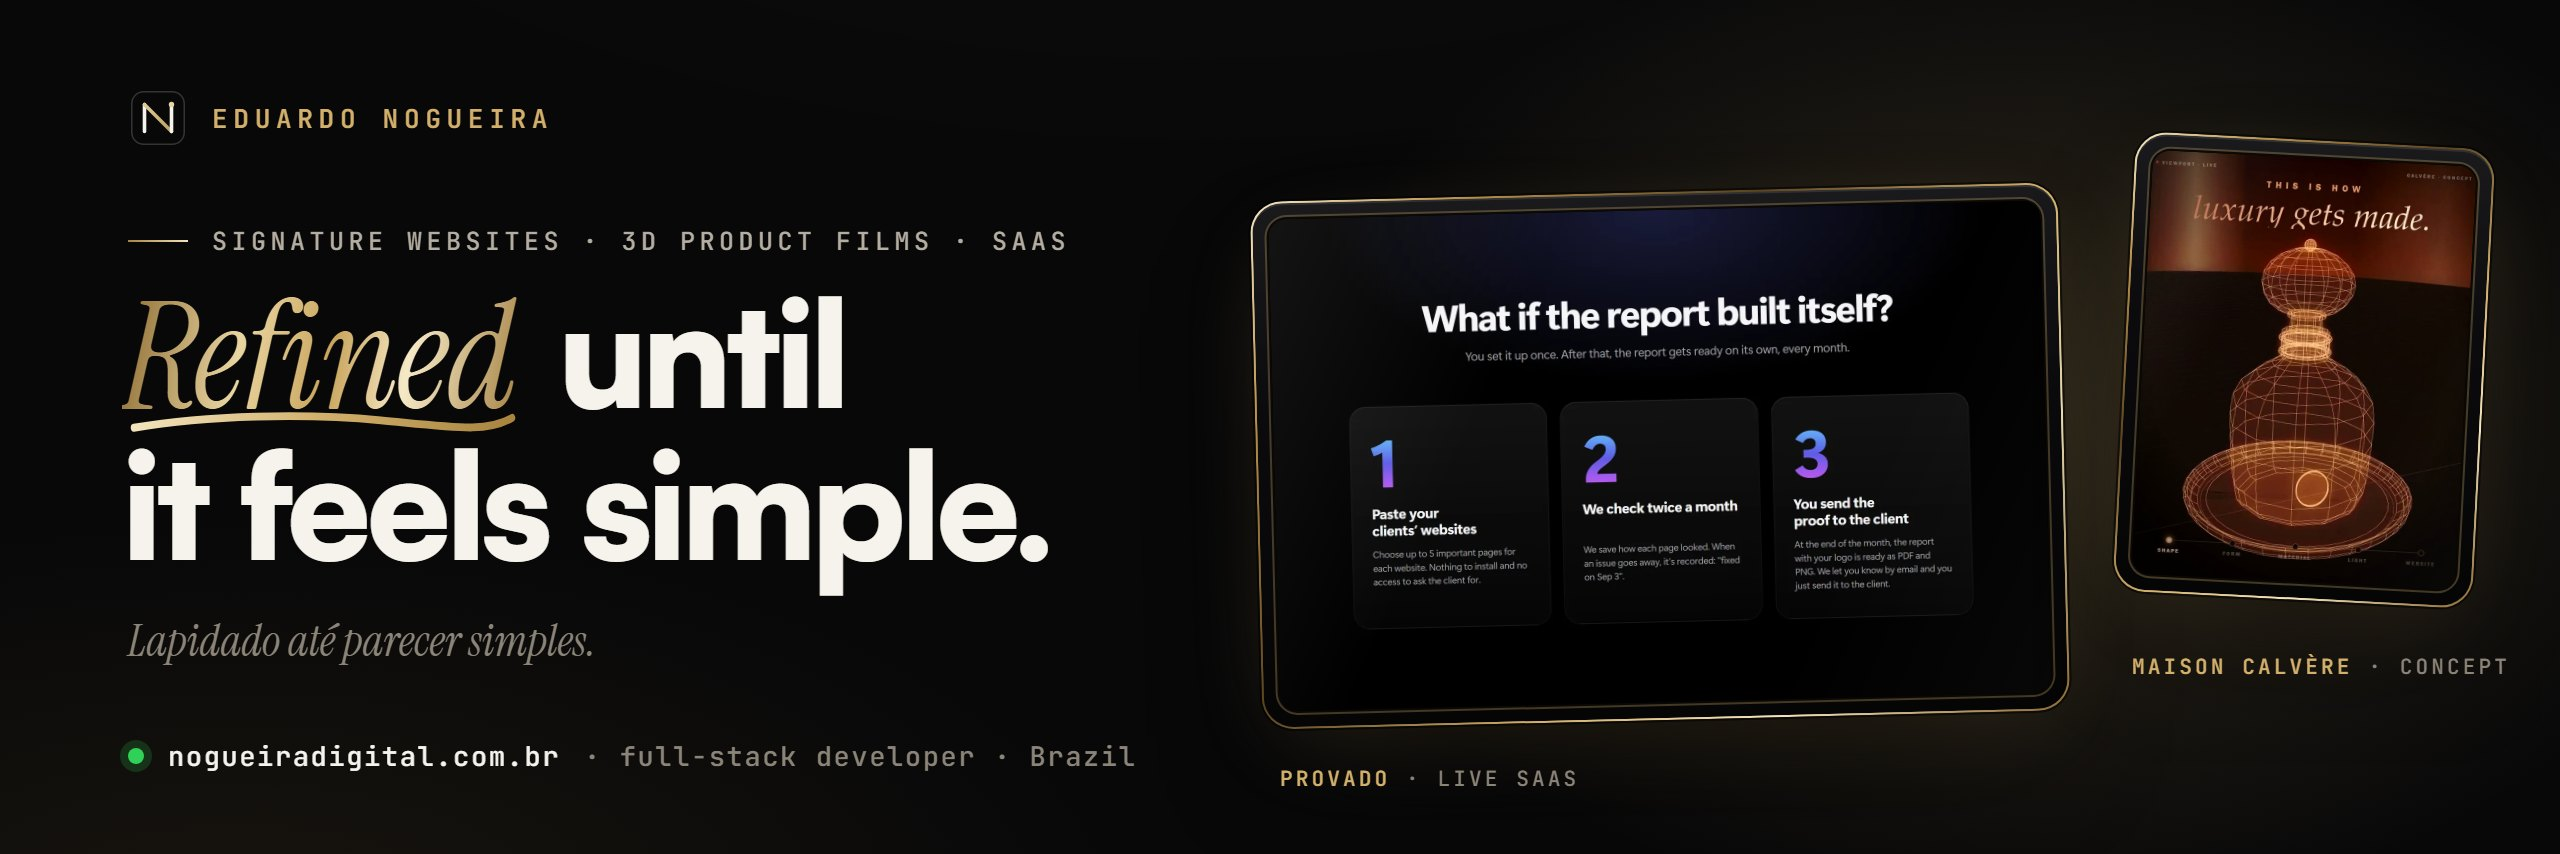
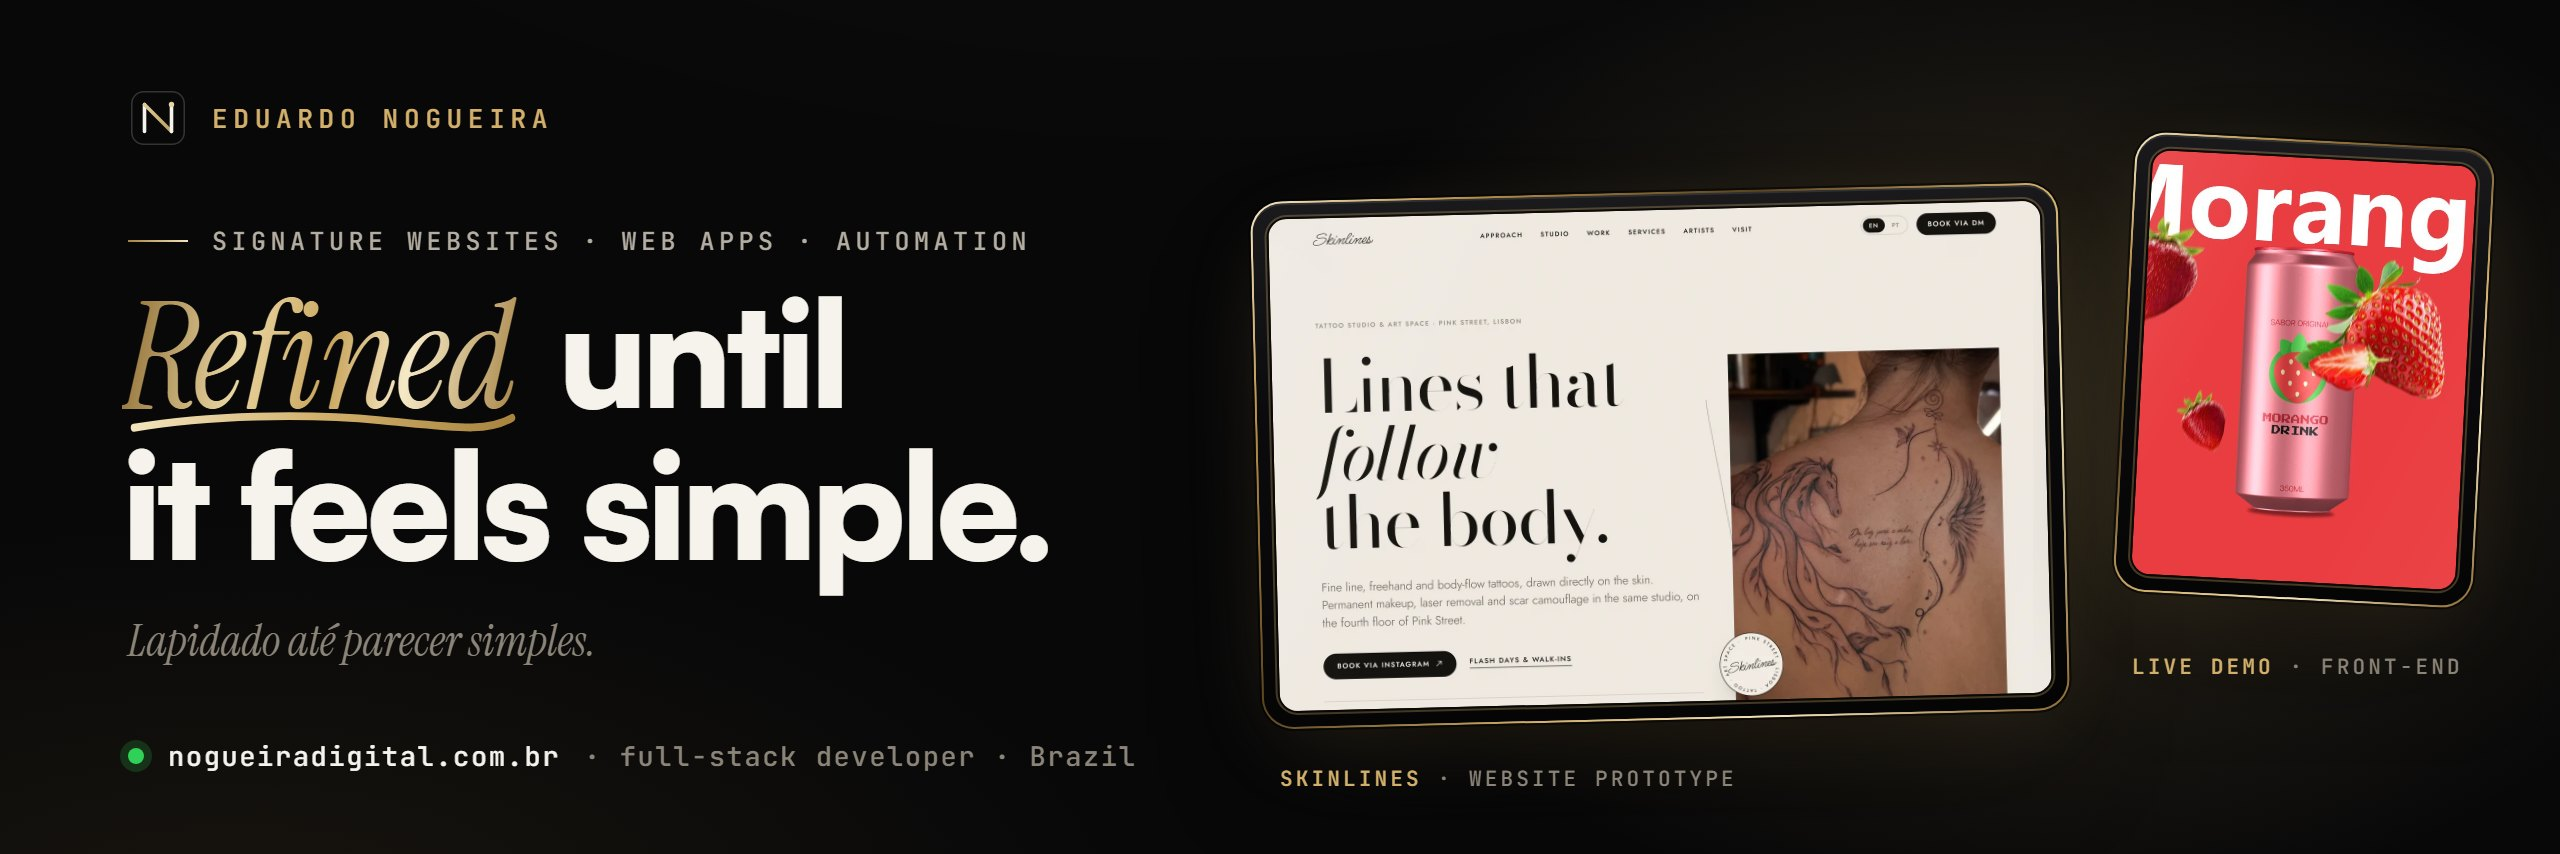
design: keep the profile to websites, web apps and automation
- Cover now shows the Skinlines prototype and a live demo
- Selected work: Skinlines (prototype) and MidasCrypto (paused)

Changed region(s): [[0.4688, 0.1522, 0.9688, 0.8525], [0.5, 0.8829, 0.6875, 0.9438], [0.25, 0.274, 0.4062, 0.3044]]

diff --git a/README.md b/README.md
@@ -1,11 +1,9 @@
 <p align="center">
-  <a href="https://nogueiradigital.com.br/"><img src="./assets/cover.jpg" width="100%" alt="Eduardo Nogueira — Refined until it feels simple. Signature websites, 3D product films and SaaS." /></a>
+  <a href="https://nogueiradigital.com.br/"><img src="./assets/cover.jpg" width="100%" alt="Eduardo Nogueira — Refined until it feels simple. Signature websites, web apps and automation." /></a>
 </p>
 
 <p align="center">
   <a href="https://nogueiradigital.com.br/"><img src="https://img.shields.io/badge/Portfolio-nogueiradigital.com.br-D2B06B?style=for-the-badge&labelColor=0B0B0D&logo=googlechrome&logoColor=D2B06B" alt="Portfolio: nogueiradigital.com.br" /></a>
-  &nbsp;
-  <a href="https://provadoseo.com/"><img src="https://img.shields.io/badge/Live-Provado_SaaS-30D158?style=for-the-badge&labelColor=0B0B0D" alt="Live: Provado SaaS" /></a>
   &nbsp;
   <a href="https://www.linkedin.com/in/eduardo-nogueira-b07545288/"><img src="https://img.shields.io/badge/LinkedIn-Let's_talk-D2B06B?style=for-the-badge&labelColor=0B0B0D&logo=linkedin&logoColor=D2B06B" alt="Let's talk on LinkedIn" /></a>
 </p>
@@ -18,7 +16,7 @@
 
 ## Refined until it feels simple.
 
-I'm **Eduardo Nogueira**, a full-stack developer from Brazil. I design and build **signature websites**, **3D product films** and **SaaS** — from the database to launch day.
+I'm **Eduardo Nogueira**, a full-stack developer from Brazil. I design and build **signature websites**, **web apps** and **automation** — from the database to launch day.
 
 By day I work on a product team (React, TypeScript, NestJS and Prisma), taking features from code review to production. The rest of the time I build my own products and systems for clients, thinking about the person behind the counter, not just the screenshot.
 
@@ -29,30 +27,16 @@ By day I work on a product team (React, TypeScript, NestJS and Prisma), taking f
 <table>
   <tr>
     <td width="50%" valign="top">
-      <a href="https://provadoseo.com/"><img src="./assets/work/provado.webp" width="100%" alt="Provado landing page: what if the report built itself?" /></a>
-      <h4><a href="https://provadoseo.com/">Provado ↗</a> &nbsp;<sub>🟢 LIVE</sub></h4>
-      <p>White-label proof of technical SEO work, for agencies. It checks client sites twice a month and builds the monthly report on its own — in English, Portuguese and Spanish, with Stripe checkout.<br /><sub>Prova mensal do trabalho técnico de SEO, white-label, para agências.</sub></p>
-      <p><sub>NEXT.JS · SUPABASE · STRIPE · PLAYWRIGHT</sub></p>
-    </td>
-    <td width="50%" valign="top">
-      <img src="./assets/work/midascrypto.webp" width="100%" alt="MidasCrypto landing page with an example card (fictional data)" />
-      <h4>MidasCrypto &nbsp;<sub>⏸ PAUSED</sub></h4>
-      <p>A Telegram data tool for new Solana launches, built with a friend: it filters every new pair, runs safety checks and sends one card, then reports what happened next. Ran in production in October; paused while I focus on Provado.<br /><sub>Ferramenta de dados no Telegram para lançamentos na Solana. Pausada. Card de exemplo com dados fictícios.</sub></p>
-      <p><sub>PYTHON · TELEGRAM · DATA</sub></p>
-    </td>
-  </tr>
-  <tr>
-    <td width="50%" valign="top">
       <a href="https://eduardon0gueira.github.io/skinlines-prototype/"><img src="./assets/work/skinlines.webp" width="100%" alt="Skinlines website prototype: Lines that follow the body." /></a>
       <h4><a href="https://eduardon0gueira.github.io/skinlines-prototype/">Skinlines Art Space ↗</a> &nbsp;<sub>PROTOTYPE</sub></h4>
       <p>An independent website prototype for a tattoo studio on Pink Street, Lisbon — editorial type, EN/PT, booking by DM. Not the studio's official site.<br /><sub>Protótipo independente de site para um estúdio de tatuagem em Lisboa. Não é o site oficial.</sub></p>
       <p><sub>HTML · CSS · JAVASCRIPT · <a href="https://github.com/EduardoN0gueira/skinlines-prototype">CODE</a></sub></p>
     </td>
     <td width="50%" valign="top">
-      <a href="https://nogueiradigital.com.br/#films"><img src="./assets/work/films.jpg" width="100%" alt="Three 3D product film concepts: Noctelle, Maison Calvère and Élore Verde" /></a>
-      <h4><a href="https://nogueiradigital.com.br/#films">3D product films ↗</a> &nbsp;<sub>CONCEPT · DESIGNED WITH AI</sub></h4>
-      <p>Short product films for concept brands — a perfume, a bottle, a watch — rendered in real time in the browser.<br /><sub>Filmes 3D de produto para marcas-conceito, renderizados em tempo real no navegador.</sub></p>
-      <p><sub>THREE.JS · WEBGL · REACT</sub></p>
+      <img src="./assets/work/midascrypto.webp" width="100%" alt="MidasCrypto landing page with an example card (fictional data)" />
+      <h4>MidasCrypto &nbsp;<sub>⏸ PAUSED</sub></h4>
+      <p>A Telegram data tool for new Solana launches, built with a friend: it filters every new pair, runs safety checks and sends one card, then reports what happened next. Ran in production in October; currently paused.<br /><sub>Ferramenta de dados no Telegram para lançamentos na Solana. Pausada. Card de exemplo com dados fictícios.</sub></p>
+      <p><sub>PYTHON · TELEGRAM · DATA</sub></p>
     </td>
   </tr>
 </table>
@@ -112,13 +96,12 @@ By day I work on a product team (React, TypeScript, NestJS and Prisma), taking f
 
 ### 🧰 Stack · Tecnologias
 
-**Front-end & 3D**
+**Front-end**
 
 ![TypeScript](https://img.shields.io/badge/TypeScript-0B0B0D?style=for-the-badge&logo=typescript&logoColor=3178C6)
 ![React](https://img.shields.io/badge/React-0B0B0D?style=for-the-badge&logo=react&logoColor=61DAFB)
 ![Next.js](https://img.shields.io/badge/Next.js-0B0B0D?style=for-the-badge&logo=nextdotjs&logoColor=F6F3EC)
 ![Tailwind CSS](https://img.shields.io/badge/Tailwind_CSS-0B0B0D?style=for-the-badge&logo=tailwindcss&logoColor=38BDF8)
-![Three.js](https://img.shields.io/badge/Three.js-0B0B0D?style=for-the-badge&logo=threedotjs&logoColor=F6F3EC)
 ![JavaScript](https://img.shields.io/badge/JavaScript-0B0B0D?style=for-the-badge&logo=javascript&logoColor=F7DF1E)
 ![HTML5](https://img.shields.io/badge/HTML5-0B0B0D?style=for-the-badge&logo=html5&logoColor=E34F26)
 ![CSS](https://img.shields.io/badge/CSS-0B0B0D?style=for-the-badge&logo=css&logoColor=BEA5FF)
@@ -153,14 +136,12 @@ By day I work on a product team (React, TypeScript, NestJS and Prisma), taking f
 
 ### Lapidado até parecer simples.
 
-Sou o **Eduardo Nogueira**, desenvolvedor full stack no Brasil. Desenho e construo **sites premium**, **filmes 3D de produto** e **SaaS** — do banco de dados ao dia do lançamento.
+Sou o **Eduardo Nogueira**, desenvolvedor full stack no Brasil. Desenho e construo **sites premium**, **aplicações web** e **automações** — do banco de dados ao dia do lançamento.
 
 Durante o dia trabalho num time de produto (React, TypeScript, NestJS e Prisma), levando funcionalidades do code review até a produção. No resto do tempo crio meus próprios produtos e sistemas para clientes, pensando em quem está no balcão, não só no print bonito.
 
-- **Provado** — no ar: prova mensal do trabalho técnico de SEO, white-label, para agências, em três idiomas e com checkout pela Stripe.
 - **MidasCrypto** — pausado: ferramenta de dados no Telegram para lançamentos na Solana, feita com um amigo.
 - **Skinlines Art Space** — protótipo independente de site para um estúdio de tatuagem em Lisboa (não é o site oficial).
-- **Filmes 3D de produto** — conceitos criados com IA e renderizados em tempo real no navegador.
 
 As demos ao vivo e a automação acima têm descrição nos dois idiomas. O portfólio completo está em **[nogueiradigital.com.br](https://nogueiradigital.com.br/)**.
 
